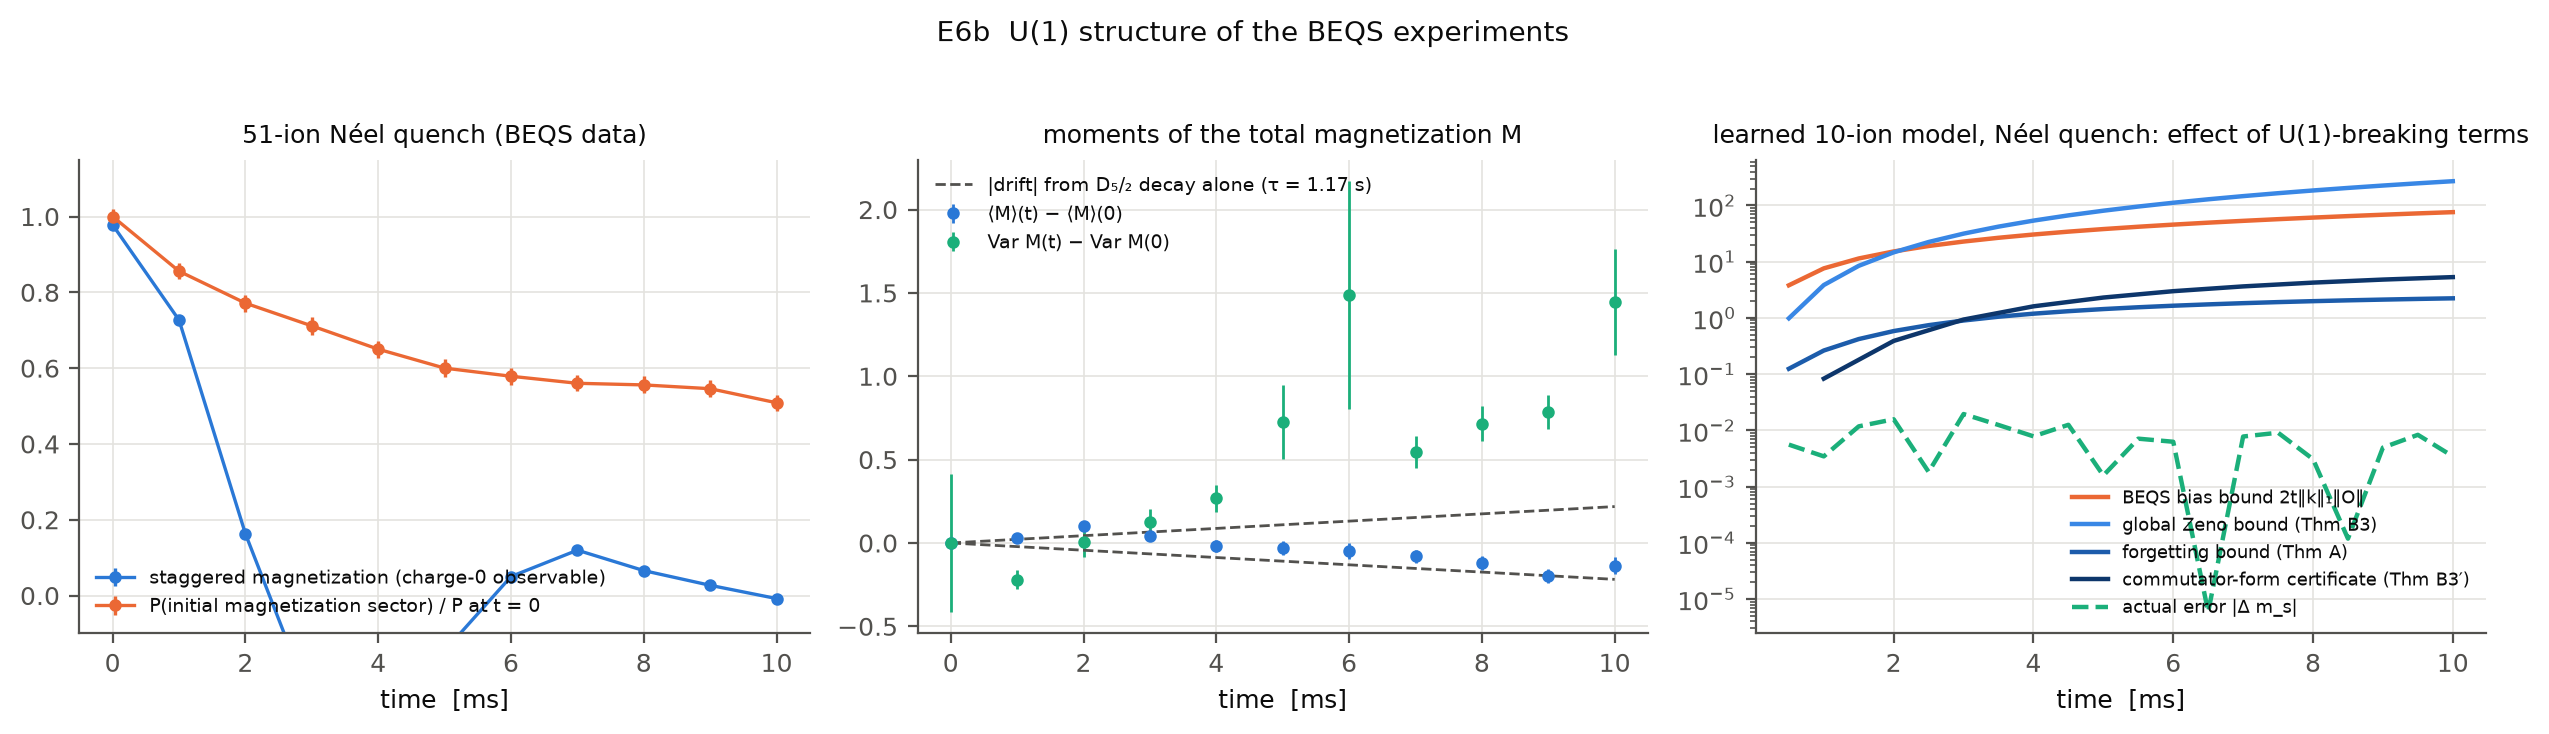
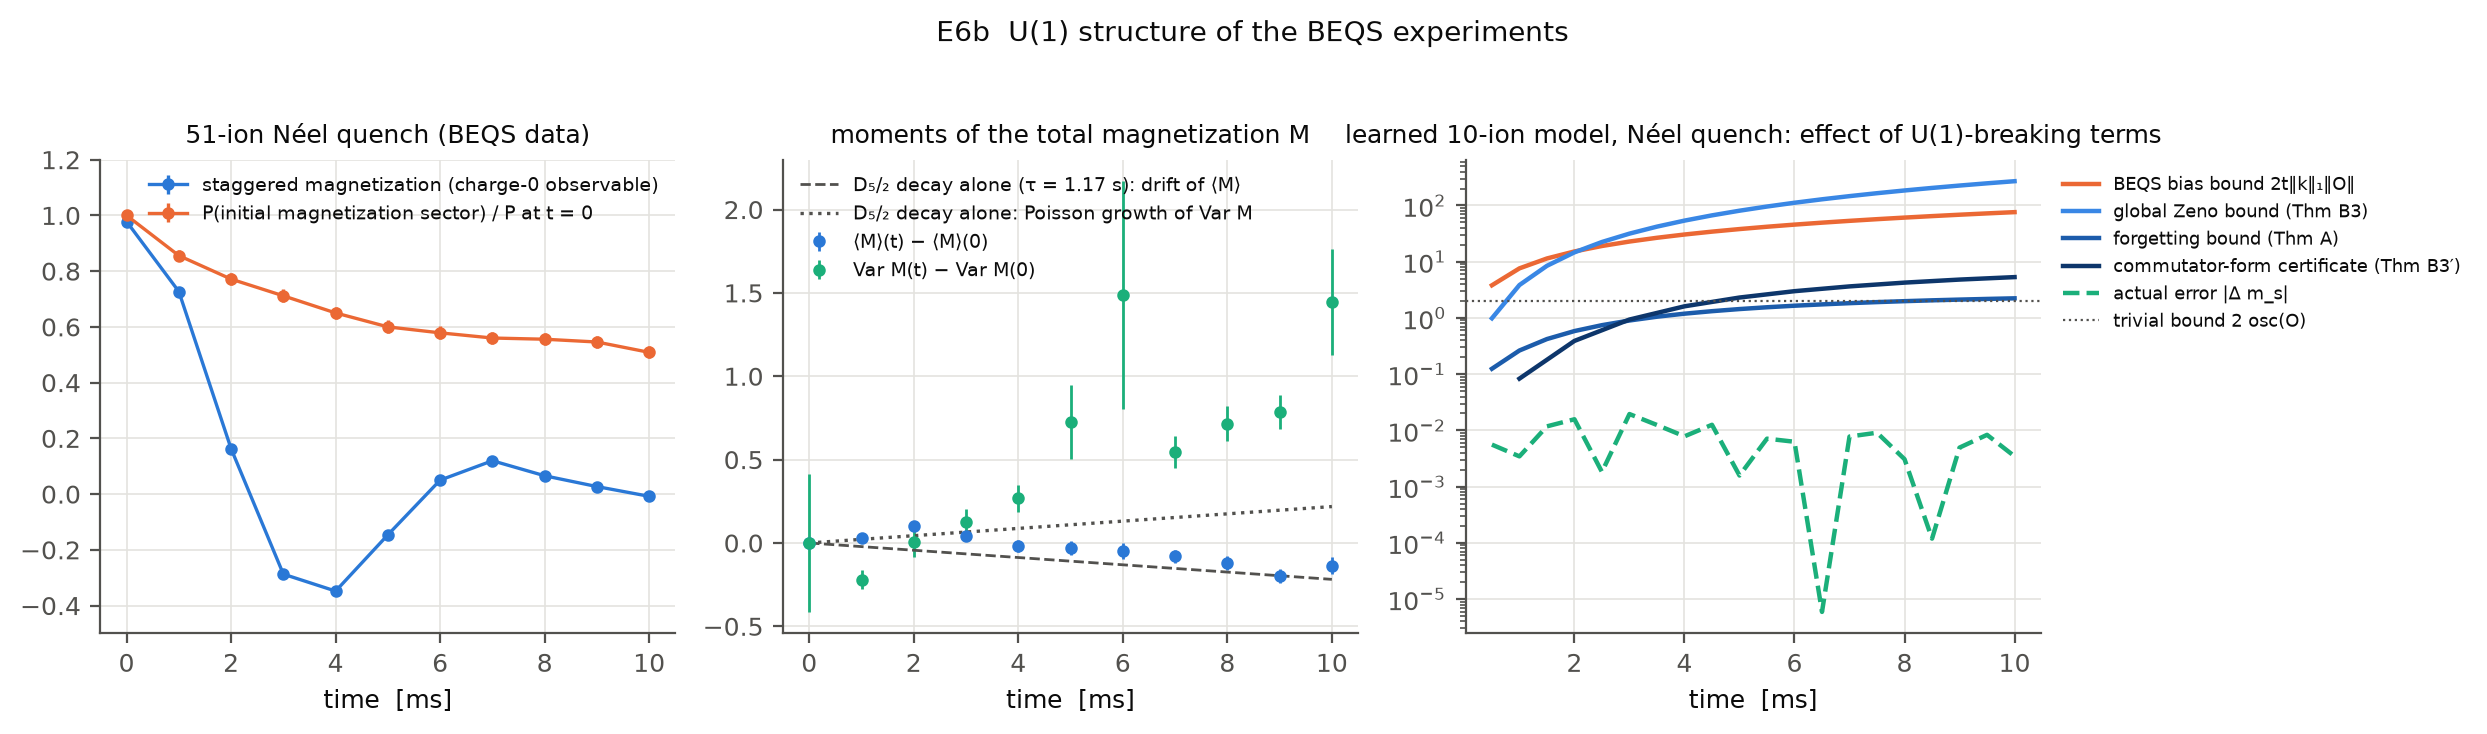
fix: readable E6b figure
Rerun of E6b (numbers bit-identical) with an npz cache and --replot: the
staggered-magnetization dip is no longer clipped, the decay-only
references are labelled separately, the legend sits outside the
error-budget panel, and the trivial bound is drawn.

diff --git a/experiments/e6_symmetry.py b/experiments/e6_symmetry.py
@@ -205,8 +205,7 @@ def plot(times, st, eb):
         t = AB_GRID if key == "cert" else T_GRID
         y = eb[key]
         ax.semilogy(t[1:], np.where(y[1:] > 0, y[1:], np.nan), color=col, ls=ls, label=lab)
-    ax.axhline(2.0, color=MUTED, lw=0.8, ls=":")
-    ax.text(0.6, 2.4, "trivial bound 2 osc(O)", fontsize=6.5, color=MUTED)
+    ax.axhline(2.0, color=MUTED, lw=0.8, ls=":", label="trivial bound 2 osc(O)")
     ax.set_xlabel("time  [ms]")
     ax.set_title("learned 10-ion model, Néel quench: effect of U(1)-breaking terms", fontsize=9)
     ax.legend(fontsize=6.5, loc="upper left", bbox_to_anchor=(1.01, 1.0))
